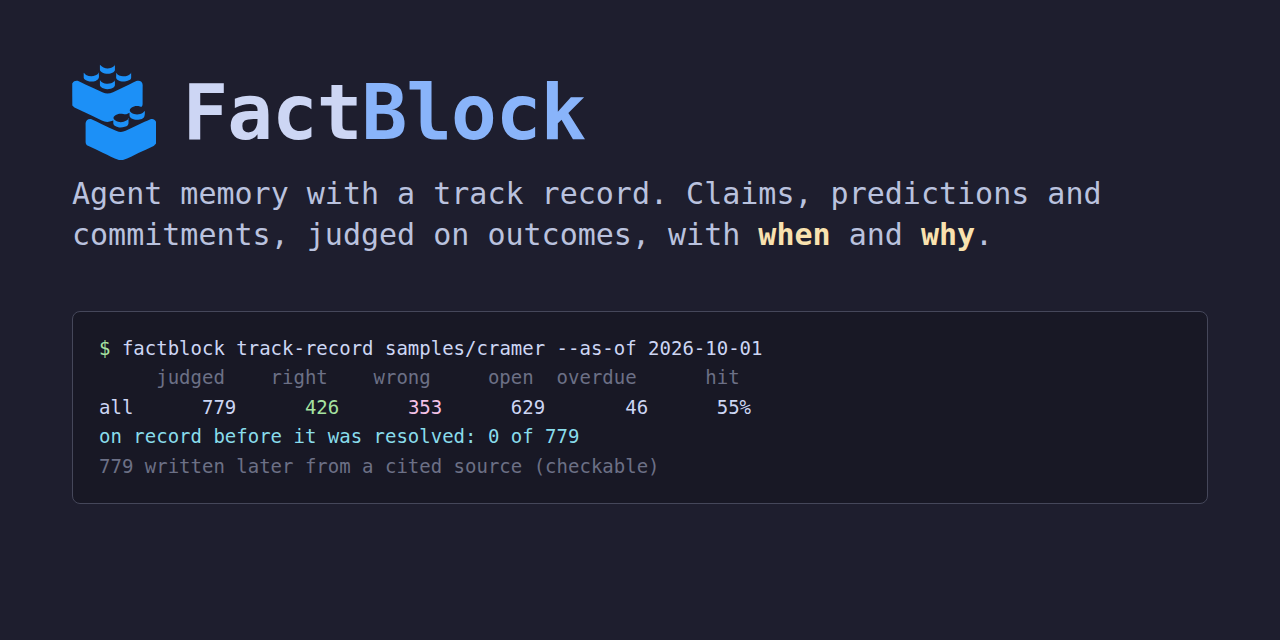
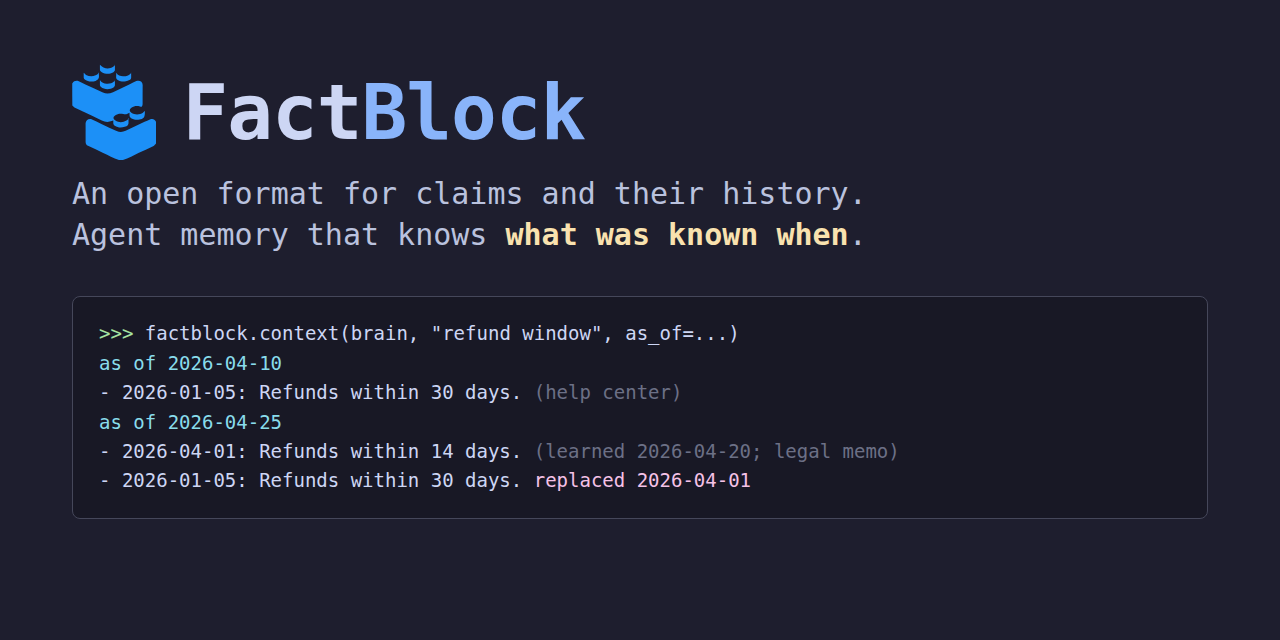
Release 1.0.0a12: introduce FactBlock as an open format for claims and their history
After outside feedback: the README, package description, CLI and llms.txt lead with what
the format stores and why a developer adopts it (claims, evidence and changes, and what was
known at any point in time). Two examples open the README: a policy dated April 1 that
reaches the help desk April 20, and predictions judged against a baseline. The README no
longer claims other memories cannot keep this.

Changed region(s): [[0.0625, 0.5, 0.7188, 0.7812], [0.0625, 0.2812, 0.875, 0.4062], [0.5625, 0.625, 0.5938, 0.6562]]

diff --git a/.github/social-preview.html b/.github/social-preview.html
@@ -10,13 +10,14 @@ h1 span{color:#89b4fa;margin-left:-26px}
 .foot{display:flex;justify-content:space-between;font-size:20px;color:#7f849c}
 </style></head><body>
 <div><h1 style="display:flex;align-items:center;gap:26px"><img src="logo.svg" style="height:96px">Fact<span>Block</span></h1>
-<div class="tag">Agent memory with a track record. Claims, predictions and<br>commitments, judged on outcomes, with <b>when</b> and <b>why</b>.</div></div>
+<div class="tag">An open format for claims and their history.<br>Agent memory that knows <b>what was known when</b>.</div></div>
 <div class="term">
-<div><span class="p">$</span> factblock track-record samples/cramer --as-of 2026-10-01</div>
-<div><span class="d">&nbsp;&nbsp;&nbsp;&nbsp;&nbsp;judged&nbsp;&nbsp;&nbsp;&nbsp;right&nbsp;&nbsp;&nbsp;&nbsp;wrong&nbsp;&nbsp;&nbsp;&nbsp;&nbsp;open&nbsp;&nbsp;overdue&nbsp;&nbsp;&nbsp;&nbsp;&nbsp;&nbsp;hit</span></div>
-<div>all&nbsp;&nbsp;&nbsp;&nbsp;&nbsp;&nbsp;779&nbsp;&nbsp;&nbsp;&nbsp;&nbsp;&nbsp;<span class="p">426</span>&nbsp;&nbsp;&nbsp;&nbsp;&nbsp;&nbsp;<span class="r">353</span>&nbsp;&nbsp;&nbsp;&nbsp;&nbsp;&nbsp;629&nbsp;&nbsp;&nbsp;&nbsp;&nbsp;&nbsp;&nbsp;46&nbsp;&nbsp;&nbsp;&nbsp;&nbsp;&nbsp;55%</div>
-<div><span class="c">on record before it was resolved: 0 of 779</span></div>
-<div><span class="d">779 written later from a cited source (checkable)</span></div>
+<div><span class="p">&gt;&gt;&gt;</span> factblock.context(brain, "refund window", as_of=...)</div>
+<div><span class="c">as of 2026-04-10</span></div>
+<div>- 2026-01-05: Refunds within 30 days. <span class="d">(help center)</span></div>
+<div><span class="c">as of 2026-04-25</span></div>
+<div>- 2026-04-01: Refunds within 14 days. <span class="d">(learned 2026-04-20; legal memo)</span></div>
+<div>- 2026-01-05: Refunds within 30 days. <span class="r">replaced 2026-04-01</span></div>
 </div>
 <div class="foot"><span>github.com/factagora/factblock</span><span>pip install --pre factblock · Apache-2.0</span></div>
 </body></html>

diff --git a/factblock/demo.py b/factblock/demo.py
@@ -86,7 +86,7 @@ def logo():
 # --- scenes --------------------------------------------------------------------------------------
 
 def title(_):
-    words = Group(Text("FactBlock", style=f"bold {ACCENT}"), Text("Agent memory with a track record.", style="bold"), Text(""),
+    words = Group(Text("FactBlock", style=f"bold {ACCENT}"), Text("An open format for claims and their history.", style="bold"), Text(""),
                   Text("1  Every read is as of a date", style="white"),
                   Text("2  Claims are linked by cause", style="white"),
                   Text("3  Nothing is overwritten", style="white"),
@@ -295,7 +295,7 @@ def leak(a):
 
 
 def end(_):
-    words = Group(Text("FactBlock", style=f"bold {ACCENT}"), Text("Agent memory with a track record.", style="bold"), Text(""),
+    words = Group(Text("FactBlock", style=f"bold {ACCENT}"), Text("An open format for claims and their history.", style="bold"), Text(""),
                   Text("pip install --pre factblock", style=f"bold white on grey15"), Text(""),
                   Text("github.com/factagora/factblock", style=f"bold {ACCENT}"),
                   Text("An open format: plain files, Apache-2.0.", style=GRAY))

diff --git a/factblock/__main__.py b/factblock/__main__.py
@@ -96,7 +96,7 @@ def _print_resolve(k, r):
 
 
 def main():
-    p = argparse.ArgumentParser(prog="factblock", description="Agent memory with a track record: claims, predictions and commitments, judged on outcomes, with when and why, in a folder, read as of any instant.")
+    p = argparse.ArgumentParser(prog="factblock", description="An open format for claims and their history: agent memory that tracks claims, evidence and changes, in a folder, read as of any instant.")
     p.add_argument("--version", action="version", version=f"factblock {__version__}")
     sub = p.add_subparsers(dest="cmd", metavar="command")
 

diff --git a/tests/test_demo.py b/tests/test_demo.py
@@ -25,5 +25,5 @@ out = demo("verdict", "samples/rates", "c1")
 assert "TRUE" in out, out
 out = demo("leak", "bench/streamingqa/results.json")
 assert "79.7%" in out and "797 of 1,000" in out, out
-assert "pip install --pre factblock" in demo("end") and "Agent memory with a track record." in demo("title")
+assert "pip install --pre factblock" in demo("end") and "An open format for claims and their history." in demo("title")
 print("PASS demo: every scene renders on samples/cramer, samples/rates and the StreamingQA results with their real numbers")

diff --git a/README.md b/README.md
@@ -1,14 +1,14 @@
-# <img src="https://raw.githubusercontent.com/factagora/factblock/main/.github/logo.svg" alt="" height="40" align="top"> FactBlock: agent memory with a track record
+# <img src="https://raw.githubusercontent.com/factagora/factblock/main/.github/logo.svg" alt="" height="40" align="top"> FactBlock: an open format for claims and their history
 
 [![test](https://github.com/factagora/factblock/actions/workflows/test.yml/badge.svg)](https://github.com/factagora/factblock/actions/workflows/test.yml) [![PyPI](https://img.shields.io/pypi/v/factblock)](https://pypi.org/project/factblock/) [![License: Apache-2.0](https://img.shields.io/badge/license-Apache--2.0-blue)](https://github.com/factagora/factblock/blob/main/LICENSE)
 
-**Record claims, predictions and commitments, judge them on outcomes, and show which were on record before they were resolved.**
+**Build agent memory that tracks claims, evidence and changes, and lets you query what was known at any point in time.**
 
-It is a temporal causal knowledge graph: every block keeps *when* (said, learned, in force, judged) and *why* (the reasons given, the source, the evidence behind its verdict), so your AI reads it as of any date.
+Represent temporal causal knowledge graphs in portable files, reusable across AI agents, analytics, and visualizations.
 
 ![FactBlock in 40 seconds: reads as of a date, a causal chain, a claim replaced not overwritten, a verdict that arrives later, and the hindsight leak without a clock. Real data from samples/cramer and samples/rates.](https://raw.githubusercontent.com/factagora/factblock/main/samples/demo.gif)
 
-Your data is full of claims: facts, opinions, predictions, promises. FactBlock extracts them, keeps when they were said and when you learned them, links what caused what, and never overwrites what changed. Your agent recalls them as of any moment, so it decides on what was knowable then, not on hindsight.
+Your data is full of claims: "the Team plan includes 10 seats", "we ship SSO in Q3", "revenue grows 20% this year". For each one it matters who said it and when, what it rests on, and whether it later changed or was confirmed. FactBlock gives you that structure so you do not build it yourself: it keeps when a claim was said and when you learned it, links the reasons given, never overwrites what changed, and adds verdicts as they arrive. Your agent recalls them as of any moment, so it decides on what was knowable then, not on hindsight.
 
 ```bash
 pip install --pre factblock                           # alpha: --pre until 1.0
@@ -22,6 +22,39 @@ factblock import kb.csv --backfill -o brain/          # rows you already have: i
 factblock import crm.csv --backfill -o brain/ --map Claim=text,Date=said_at   # your own column names
 factblock extract transcript.txt --observed-at 2024-03-20 --speaker "Jim Cramer" --backfill -o brain/   # prose, through your model key
 ```
+
+## Two examples
+
+**A policy changes: what did the assistant know when it answered?** A refund policy is dated April 1 but reaches the help desk on April 20. When it happened and when you learned it are two different days, and a date filter only has the first. Replaying April 10 with one shows the new policy, and the bot looks wrong for having said 30 days. FactBlock reads as of the day:
+
+```python
+factblock.context("examples/support-agent/brain", "refund window", as_of="2026-04-10")
+# - 2026-01-05: Refunds are available within 30 days of purchase. (source: help center)
+
+factblock.context("examples/support-agent/brain", "refund window", as_of="2026-04-25")
+# - 2026-04-01: Refunds are available within 14 days of purchase. (learned 2026-04-20; source: legal memo dated April 1, filed to the KB April 20)
+# - 2026-01-05: Refunds are available within 30 days of purchase. (source: help center)
+#   replaced 2026-04-01 by: Refunds are available within 14 days of purchase.
+```
+
+[`examples/support-agent`](https://github.com/factagora/factblock/tree/main/examples/support-agent) asks five such questions (a price announced before it takes effect, the bot's wrong answer and its correction, a promise and whether it was kept, the late memo, a retired API). A date filter puts a stale answer into the prompt on all five, FactBlock on none.
+
+**A prediction is judged: how good was the call?** Predictions and promises get verdicts later, and the verdicts keep their own dates. `track-record` counts how they turned out as known on a day, next to the bar they had to clear, and says which were on record before they were resolved:
+
+```
+$ factblock track-record samples/cramer --as-of 2026-10-01
+      judged    right    wrong    mixed     open  overdue      hit
+all      779      426      353        0      629       46      55%
+on record before it was resolved: 0 of 779; 779 written later from a cited source (checkable)
+baseline (779 calls with a return): saying up every time would hit 54%; following the calls made +5.2% a call, +1.4% over SPY
+as of 2026-10-01  hidden: nothing  not in force: 134 nodes  known_at declared by a writer: 3905 rows in 373 batches
+```
+
+Two years of one TV commentator's market calls: right a little more often than not, about as often as saying "up" every time, yet the calls beat the market on average. `--ids` counts only calls like the one you are weighing. [`examples/analysis`](https://github.com/factagora/factblock/tree/main/examples/analysis) backtests the same files in DuckDB without hindsight, then gives a model the data as of a date and traces every line it cites back to the recording.
+
+![Following only his best subjects looks like +9.3% a call. Picked with what was known at the time, it makes +4.9%.](https://raw.githubusercontent.com/factagora/factblock/main/examples/analysis/img/backtest.png)
+
+## How it reads
 
 ```
 $ factblock why brain/ c3 --as-of 2024-10-01
@@ -45,13 +78,9 @@ print(factblock.context("brain/", "interest rates", as_of="2024-10-01"))
 # (as of 2024-10-01)
 ```
 
-That string goes into your agent's prompt. The old claim is still there, marked as replaced, with the verdict it had as of that day; ask `as_of="2025-01-01"` and the verdict reads `false`, because it was re-resolved in December. A date filter would show both claims side by side with nothing to say which one stands. [`examples/support-agent`](https://github.com/factagora/factblock/tree/main/examples/support-agent) runs five support questions both ways: a date filter puts a stale answer into the prompt on all five, FactBlock on none. `factblock.recall(...)` returns the same blocks as dicts with a certificate, and `factblock.scan(...)` returns everything visible as pyarrow tables.
+That string goes into your agent's prompt. The old claim is still there, marked as replaced, with the verdict it had as of that day; ask `as_of="2025-01-01"` and the verdict reads `false`, because it was re-resolved in December. A date filter would show both claims side by side with nothing to say which one stands. `factblock.recall(...)` returns the same blocks as dicts with a certificate, and `factblock.scan(...)` returns everything visible as pyarrow tables.
 
 `brain/` is a folder of plain files. Commit it to git, query it with DuckDB, hand it to another agent, or [sync it with a hosted ledger](#same-files-hosted). Nothing here needs a server.
-
-**Backtest it without hindsight.** The same files are a table, and they keep what a table of statements loses: when each verdict became known, what replaced what, which reasons were given. [`examples/analysis`](https://github.com/factagora/factblock/tree/main/examples/analysis) backtests two years of one commentator's market calls in DuckDB, then gives a model the same data as of a date and traces every line it cites back to the recording.
-
-![Following only his best subjects looks like +9.3% a call. Picked with what was known at the time, it makes +4.9%.](https://raw.githubusercontent.com/factagora/factblock/main/examples/analysis/img/backtest.png)
 
 ## What comes out
 
@@ -142,7 +171,7 @@ g.nodes, g.edges     # {id, label, type, when, resolution} and {id, from, to, la
 
 ## Claims it is good at
 
-| Kind | Example | What you can ask that other memories cannot |
+| Kind | Example | What you can ask |
 |---|---|---|
 | **Prediction** | "Yields keep climbing this year" (podcast, 2024-03-20) | What did this person believe on 2024-03-20? Did it come true? When did they say the opposite? |
 | **Stance** | CEO: "No price increase this year" (Jan), "An increase is unavoidable" (Jul) | How did the company's position move? What did we know in May? |
@@ -150,7 +179,7 @@ g.nodes, g.edges     # {id, label, type, when, resolution} and {id, from, to, la
 | **Commitment** | Sales: "We ship SSO by end of Q3" (to customer A) | Which promises to A are past due and unresolved? Recall them before the support agent answers ([`examples/promises`](https://github.com/factagora/factblock/tree/main/examples/promises)) |
 | **Your AI's own assertions** | Assistant: "Your plan includes 10 seats" (to user B) | Which of last month's assertions are now false? Where did each one come from? |
 
-The common thread: a claim has a speaker, a time, a reason, and a later verdict. RAG keeps chunks, entity graphs keep triples, chat memories keep summaries. None of them keep that.
+The common thread: a claim has a speaker, a time, a reason, and a later verdict. FactBlock keeps all four in one structure, and agents, SQL and charts read the same files.
 
 ## Use it with your AI
 

diff --git a/CHANGELOG.md b/CHANGELOG.md
@@ -2,6 +2,14 @@
 
 ## Unreleased
 
+## 1.0.0a12 (2026-10-11)
+
+How the project introduces itself, after outside feedback. No code change.
+
+### Changed
+- The README, package description, CLI and `llms.txt` lead with "an open format for claims and their history": agent memory that tracks claims, evidence and changes, and answers what was known at any point in time. The track record moves to the second of two examples that open the README: a policy whose memo is dated April 1 but reaches the help desk April 20 (when it happened and when you learned it are different days), and two years of predictions judged against a baseline.
+- The README no longer says other memories cannot keep this; it shows what FactBlock keeps instead.
+
 ## 1.0.0a11 (2026-10-10)
 
 A hit rate next to the bar it has to clear.
